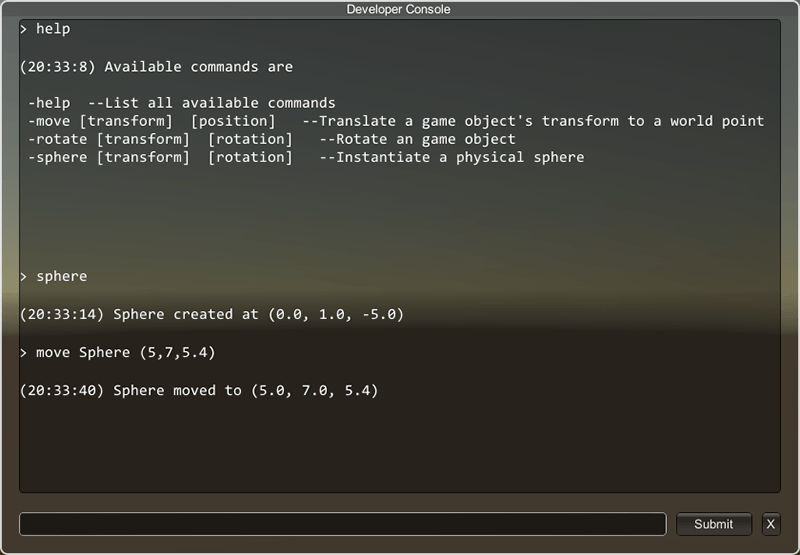
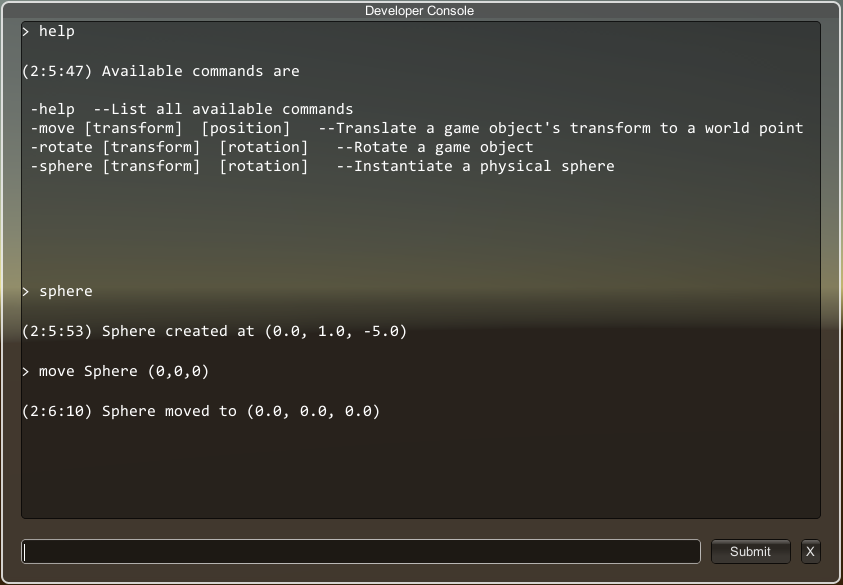
Update rotate command

Changed region(s): [[0.0, 0.0, 1.0, 1.0]]

diff --git a/Assets/DeveloperConsole/Commands.cs b/Assets/DeveloperConsole/Commands.cs
@@ -123,7 +123,7 @@ namespace Console
                 queryIdentity = "rotate";
                 commandOptions.Add("transform", new CommandOption<Transform>());
                 commandOptions.Add("rotation", new CommandOption<Quaternion>());
-                description = "Rotate an game object";
+                description = "Rotate a game object";
 
             }
 
